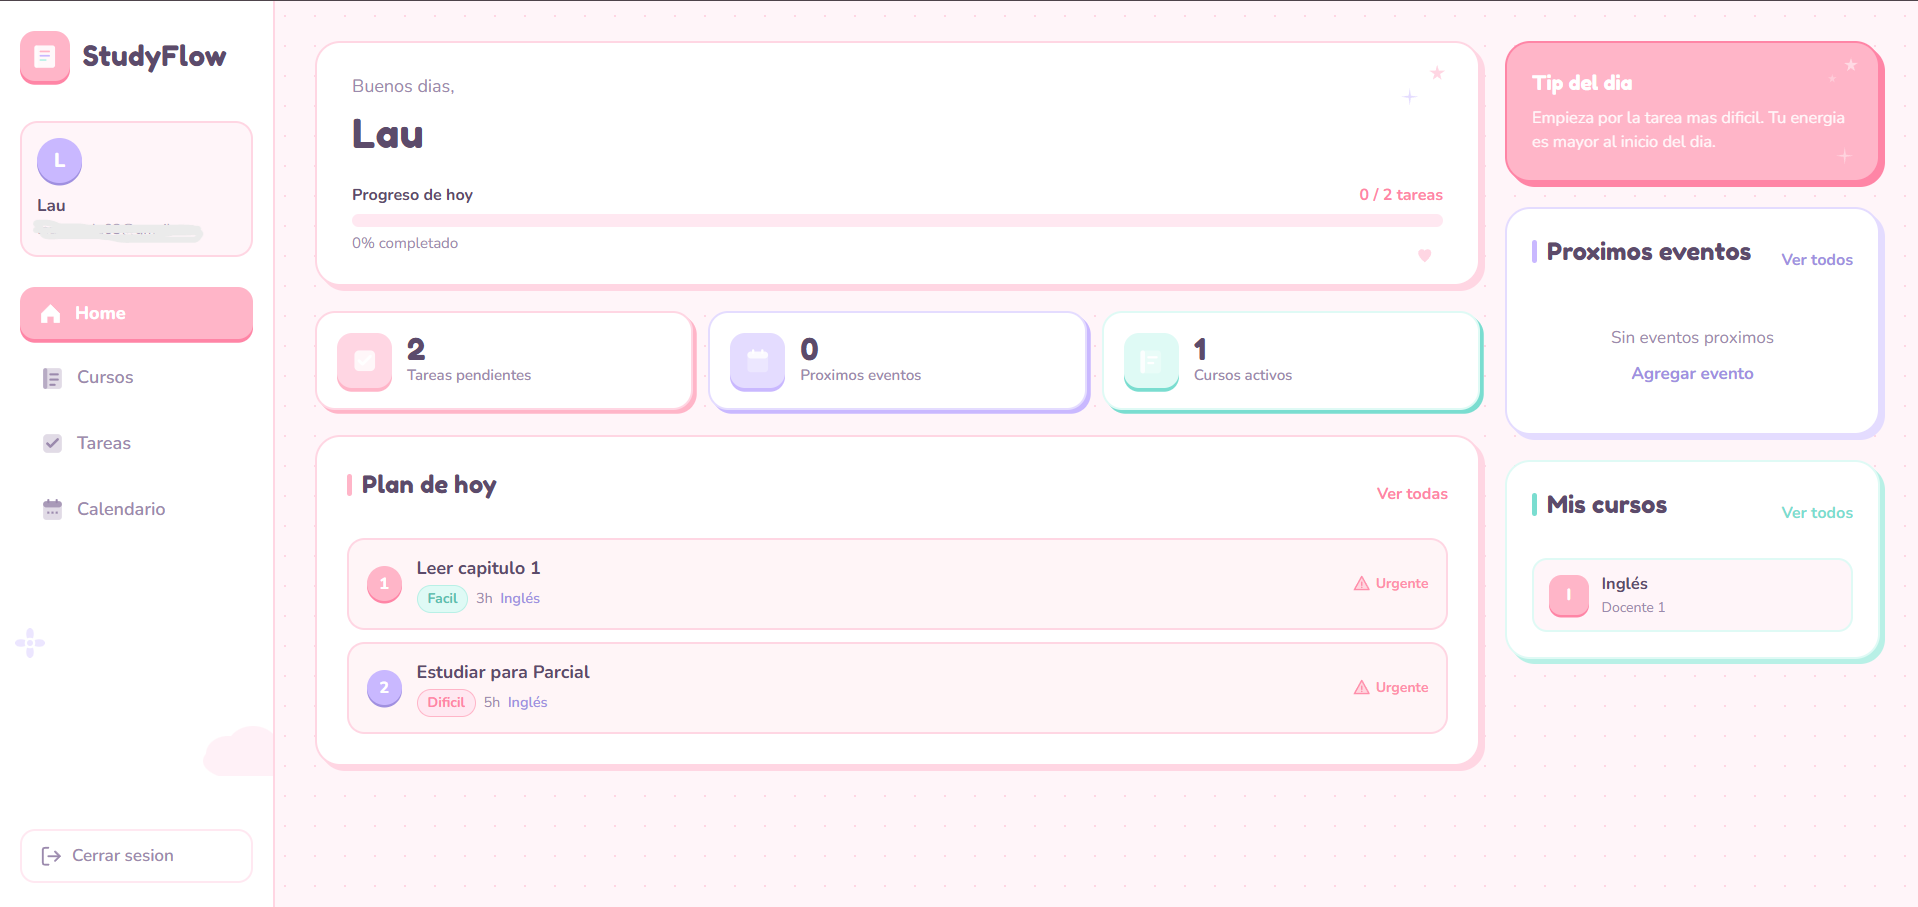
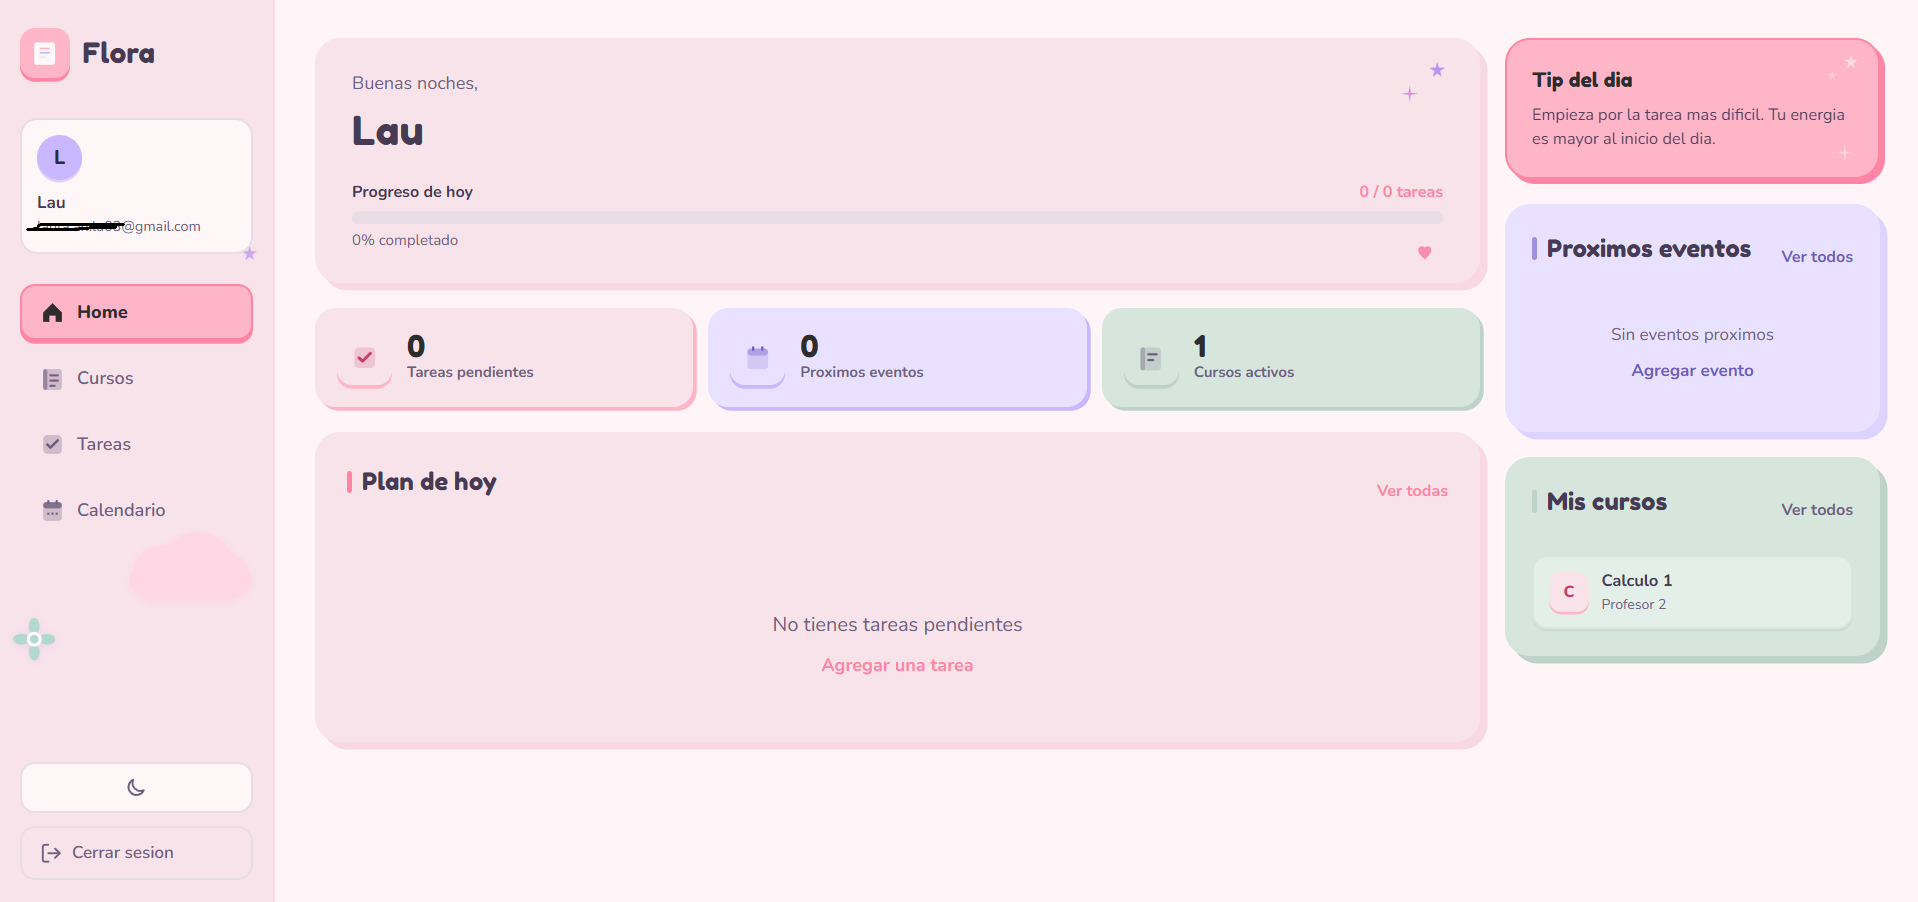
Update Flora branding, hero images and documentation

diff --git a/README.md b/README.md
@@ -107,7 +107,7 @@ El proyecto incluye:
 ##  Estructura General
 
 ```text
-StudyFlow
+Flora
 │
 ├── backend
 │   ├── prisma